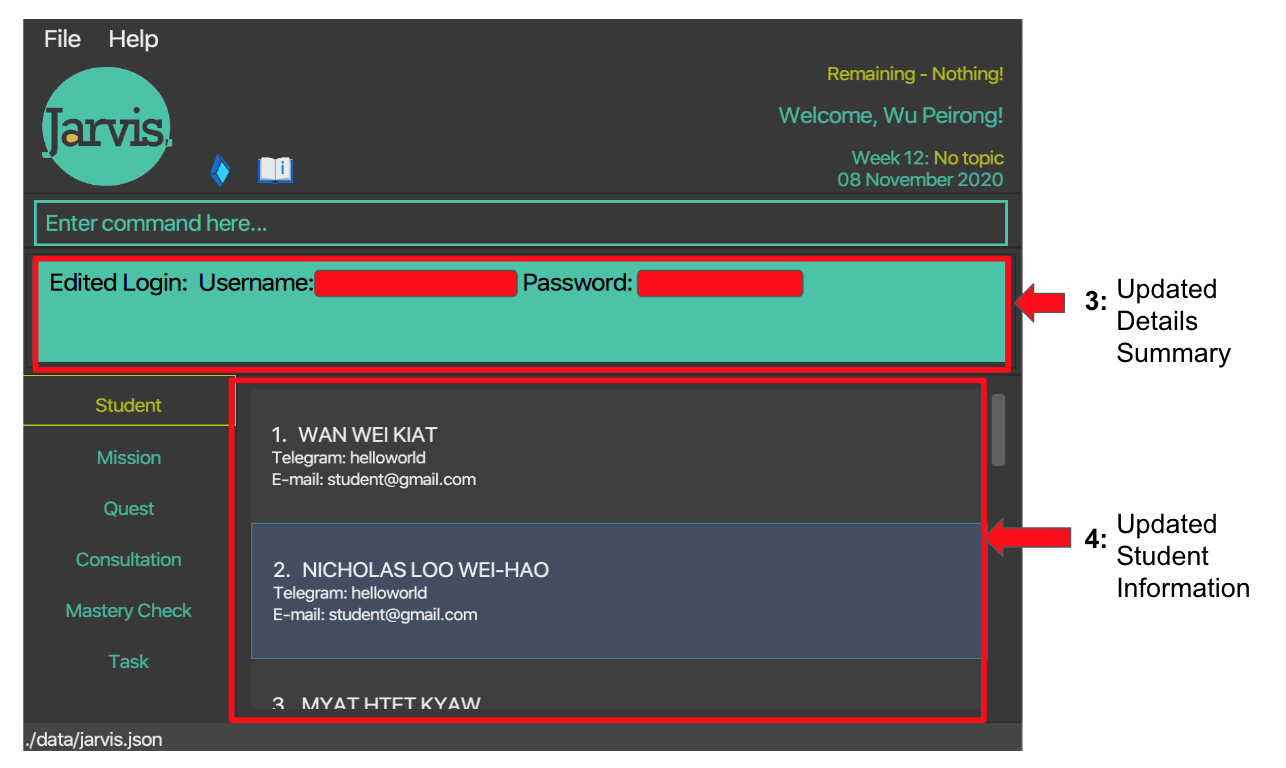
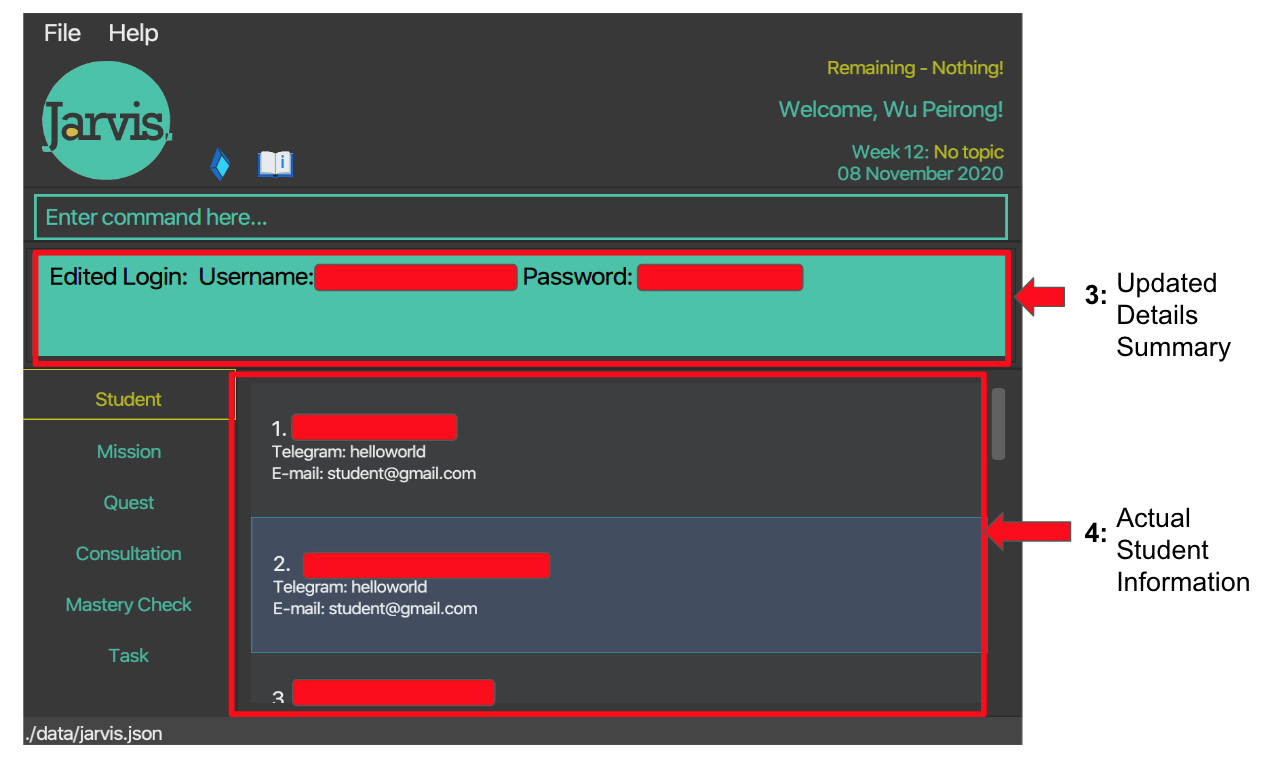
Update SS

diff --git a/docs/UserGuide.md b/docs/UserGuide.md
@@ -252,7 +252,7 @@ An example of the command being inputted:
 
 ### 5.3 Updated Details Summary
 Within the red rectangle box, Jarvis will notify you if the login was successful and the login information entered. 
-The username and password are covered with a red rectangle for this diagram only to protect the Avenger's account security.
+The username, password and student names are covered with a red rectangle for this diagram only to protect the Avenger's account security.
 You will be able to see the login details you entered.
 
 ### 5.4 Updated Student Information
